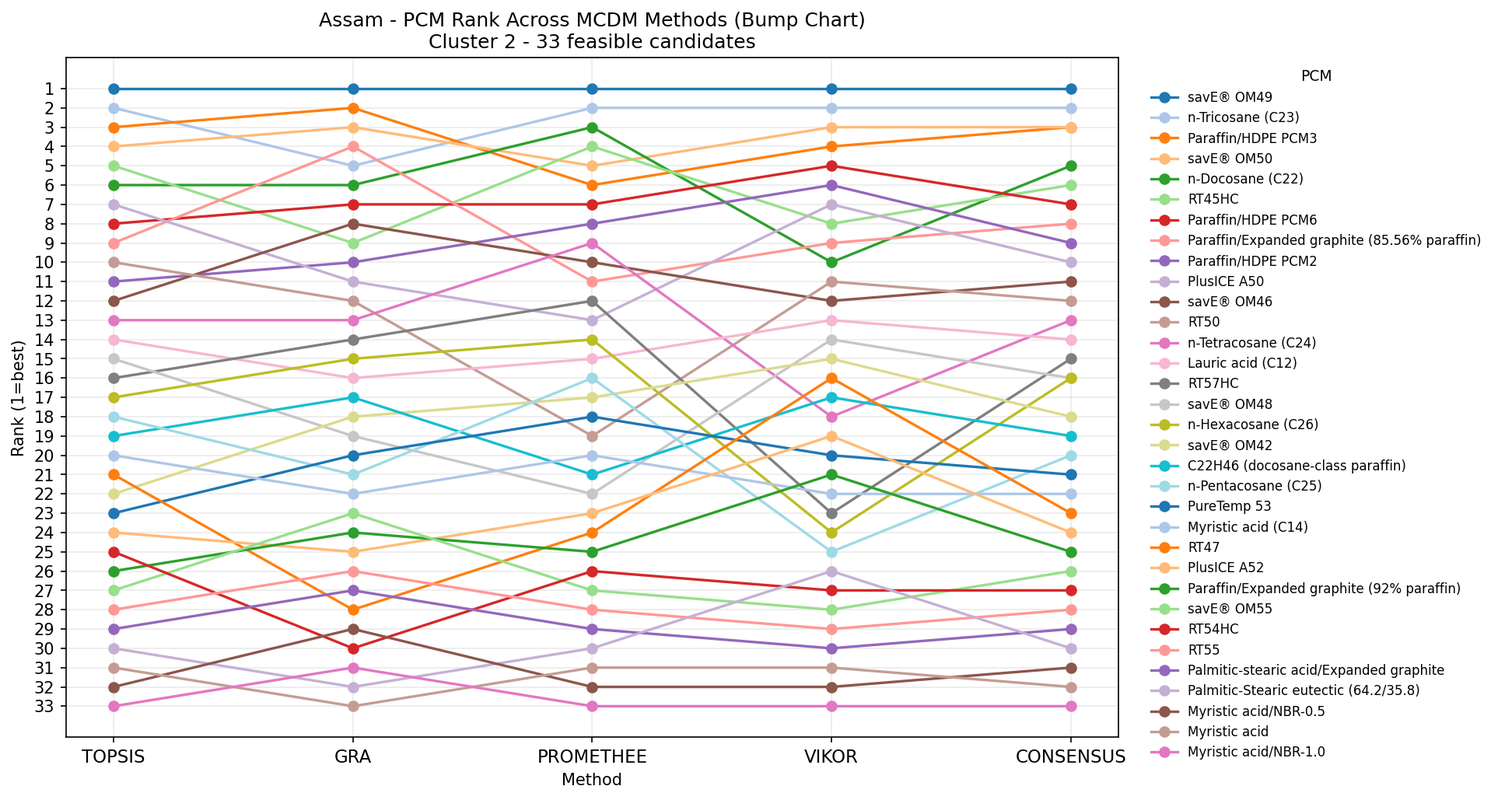
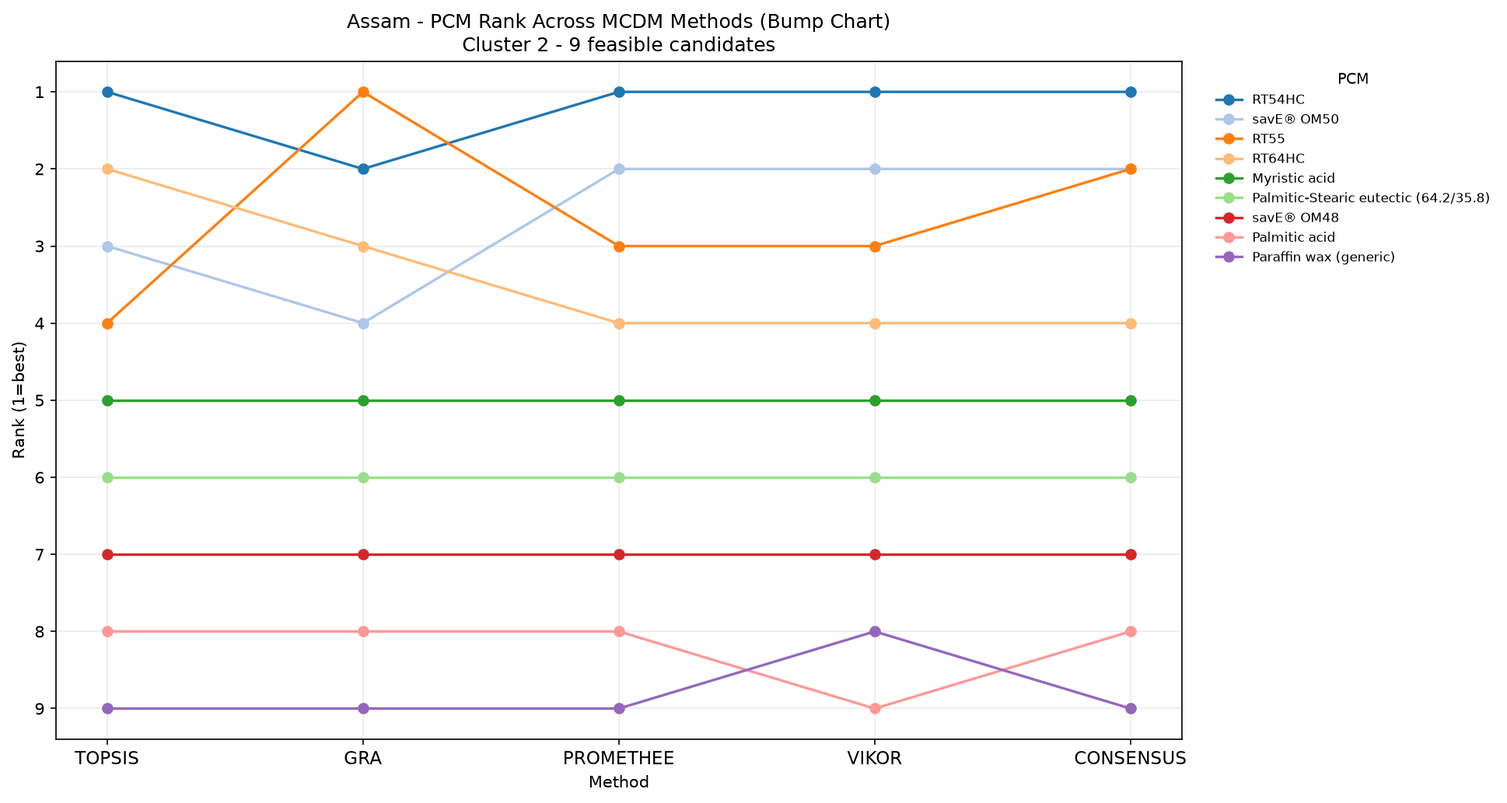
chore(plots): update Assam Cluster 2 MCDM bump chart from latest run

diff --git a/public/plots/assam/07_bump_chart_ranks_cluster_2.html b/public/plots/assam/07_bump_chart_ranks_cluster_2.html
@@ -6,6 +6,6 @@
 </head>
 <body>
     <div style="height:550px; width:100%;">                        <script>window.PlotlyConfig = {MathJaxConfig: 'local'};</script>
-        <script charset="utf-8" src="https://cdn.plot.ly/plotly-4.1.1.min.js" integrity="sha256-O24V1F27f8pb0glCkelh3cVHLNiHAJ5gCaVtq2aNch8=" crossorigin="anonymous"></script>                <div id="546731be-c1a8-4331-83df-b3c72d4fdcb7" class="plotly-graph-div" style="height:100%; width:100%;"></div>            <script>                window.PLOTLYENV=window.PLOTLYENV || {};                                if (document.getElementById("546731be-c1a8-4331-83df-b3c72d4fdcb7")) {                    Plotly.newPlot(                        "546731be-c1a8-4331-83df-b3c72d4fdcb7",                        [{"hovertemplate":"Name=savE® OM49\u003cbr\u003eMethod=%{x}\u003cbr\u003eRank=%{y}\u003cextra\u003e\u003c\u002fextra\u003e","legendgroup":"savE® OM49","line":{"color":"#FD3216","dash":"solid"},"marker":{"symbol":"circle"},"mode":"lines+markers","name":"savE® OM49","orientation":"v","showlegend":true,"x":["TOPSIS","GRA","PROMETHEE","VIKOR","CONSENSUS"],"xaxis":"x","y":{"dtype":"i1","bdata":"AQEBAQE="},"yaxis":"y","type":"scatter"},{"hovertemplate":"Name=n-Tricosane (C23)\u003cbr\u003eMethod=%{x}\u003cbr\u003eRank=%{y}\u003cextra\u003e\u003c\u002fextra\u003e","legendgroup":"n-Tricosane (C23)","line":{"color":"#00FE35","dash":"solid"},"marker":{"symbol":"circle"},"mode":"lines+markers","name":"n-Tricosane (C23)","orientation":"v","showlegend":true,"x":["TOPSIS","GRA","PROMETHEE","VIKOR","CONSENSUS"],"xaxis":"x","y":{"dtype":"i1","bdata":"AgUCAgI="},"yaxis":"y","type":"scatter"},{"hovertemplate":"Name=Paraffin\u002fHDPE PCM3\u003cbr\u003eMethod=%{x}\u003cbr\u003eRank=%{y}\u003cextra\u003e\u003c\u002fextra\u003e","legendgroup":"Paraffin\u002fHDPE PCM3","line":{"color":"#6A76FC","dash":"solid"},"marker":{"symbol":"circle"},"mode":"lines+markers","name":"Paraffin\u002fHDPE PCM3","orientation":"v","showlegend":true,"x":["TOPSIS","GRA","PROMETHEE","VIKOR","CONSENSUS"],"xaxis":"x","y":{"dtype":"i1","bdata":"AwIGBAM="},"yaxis":"y","type":"scatter"},{"hovertemplate":"Name=savE® OM50\u003cbr\u003eMethod=%{x}\u003cbr\u003eRank=%{y}\u003cextra\u003e\u003c\u002fextra\u003e","legendgroup":"savE® OM50","line":{"color":"#FED4C4","dash":"solid"},"marker":{"symbol":"circle"},"mode":"lines+markers","name":"savE® OM50","orientation":"v","showlegend":true,"x":["TOPSIS","GRA","PROMETHEE","VIKOR","CONSENSUS"],"xaxis":"x","y":{"dtype":"i1","bdata":"BAMFAwM="},"yaxis":"y","type":"scatter"},{"hovertemplate":"Name=n-Docosane (C22)\u003cbr\u003eMethod=%{x}\u003cbr\u003eRank=%{y}\u003cextra\u003e\u003c\u002fextra\u003e","legendgroup":"n-Docosane (C22)","line":{"color":"#FE00CE","dash":"solid"},"marker":{"symbol":"circle"},"mode":"lines+markers","name":"n-Docosane (C22)","orientation":"v","showlegend":true,"x":["TOPSIS","GRA","PROMETHEE","VIKOR","CONSENSUS"],"xaxis":"x","y":{"dtype":"i1","bdata":"BgYDCgU="},"yaxis":"y","type":"scatter"},{"hovertemplate":"Name=RT45HC\u003cbr\u003eMethod=%{x}\u003cbr\u003eRank=%{y}\u003cextra\u003e\u003c\u002fextra\u003e","legendgroup":"RT45HC","line":{"color":"#0DF9FF","dash":"solid"},"marker":{"symbol":"circle"},"mode":"lines+markers","name":"RT45HC","orientation":"v","showlegend":true,"x":["TOPSIS","GRA","PROMETHEE","VIKOR","CONSENSUS"],"xaxis":"x","y":{"dtype":"i1","bdata":"BQkECAY="},"yaxis":"y","type":"scatter"},{"hovertemplate":"Name=Paraffin\u002fHDPE PCM6\u003cbr\u003eMethod=%{x}\u003cbr\u003eRank=%{y}\u003cextra\u003e\u003c\u002fextra\u003e","legendgroup":"Paraffin\u002fHDPE PCM6","line":{"color":"#F6F926","dash":"solid"},"marker":{"symbol":"circle"},"mode":"lines+markers","name":"Paraffin\u002fHDPE PCM6","orientation":"v","showlegend":true,"x":["TOPSIS","GRA","PROMETHEE","VIKOR","CONSENSUS"],"xaxis":"x","y":{"dtype":"i1","bdata":"CAcHBQc="},"yaxis":"y","type":"scatter"},{"hovertemplate":"Name=Paraffin\u002fExpanded graphite (85.56% paraffin)\u003cbr\u003eMethod=%{x}\u003cbr\u003eRank=%{y}\u003cextra\u003e\u003c\u002fextra\u003e","legendgroup":"Paraffin\u002fExpanded graphite (85.56% paraffin)","line":{"color":"#FF9616","dash":"solid"},"marker":{"symbol":"circle"},"mode":"lines+markers","name":"Paraffin\u002fExpanded graphite (85.56% paraffin)","orientation":"v","showlegend":true,"x":["TOPSIS","GRA","PROMETHEE","VIKOR","CONSENSUS"],"xaxis":"x","y":{"dtype":"i1","bdata":"CQQLCQg="},"yaxis":"y","type":"scatter"},{"hovertemplate":"Name=Paraffin\u002fHDPE PCM2\u003cbr\u003eMethod=%{x}\u003cbr\u003eRank=%{y}\u003cextra\u003e\u003c\u002fextra\u003e","legendgroup":"Paraffin\u002fHDPE PCM2","line":{"color":"#479B55","dash":"solid"},"marker":{"symbol":"circle"},"mode":"lines+markers","name":"Paraffin\u002fHDPE PCM2","orientation":"v","showlegend":true,"x":["TOPSIS","GRA","PROMETHEE","VIKOR","CONSENSUS"],"xaxis":"x","y":{"dtype":"i1","bdata":"CwoIBgk="},"yaxis":"y","type":"scatter"},{"hovertemplate":"Name=PlusICE A50\u003cbr\u003eMethod=%{x}\u003cbr\u003eRank=%{y}\u003cextra\u003e\u003c\u002fextra\u003e","legendgroup":"PlusICE A50","line":{"color":"#EEA6FB","dash":"solid"},"marker":{"symbol":"circle"},"mode":"lines+markers","name":"PlusICE A50","orientation":"v","showlegend":true,"x":["TOPSIS","GRA","PROMETHEE","VIKOR","CONSENSUS"],"xaxis":"x","y":{"dtype":"i1","bdata":"BwsNBwo="},"yaxis":"y","type":"scatter"},{"hovertemplate":"Name=savE® OM46\u003cbr\u003eMethod=%{x}\u003cbr\u003eRank=%{y}\u003cextra\u003e\u003c\u002fextra\u003e","legendgroup":"savE® OM46","line":{"color":"#DC587D","dash":"solid"},"marker":{"symbol":"circle"},"mode":"lines+markers","name":"savE® OM46","orientation":"v","showlegend":true,"x":["TOPSIS","GRA","PROMETHEE","VIKOR","CONSENSUS"],"xaxis":"x","y":{"dtype":"i1","bdata":"DAgKDAs="},"yaxis":"y","type":"scatter"},{"hovertemplate":"Name=RT50\u003cbr\u003eMethod=%{x}\u003cbr\u003eRank=%{y}\u003cextra\u003e\u003c\u002fextra\u003e","legendgroup":"RT50","line":{"color":"#D626FF","dash":"solid"},"marker":{"symbol":"circle"},"mode":"lines+markers","name":"RT50","orientation":"v","showlegend":true,"x":["TOPSIS","GRA","PROMETHEE","VIKOR","CONSENSUS"],"xaxis":"x","y":{"dtype":"i1","bdata":"CgwTCww="},"yaxis":"y","type":"scatter"},{"hovertemplate":"Name=n-Tetracosane (C24)\u003cbr\u003eMethod=%{x}\u003cbr\u003eRank=%{y}\u003cextra\u003e\u003c\u002fextra\u003e","legendgroup":"n-Tetracosane (C24)","line":{"color":"#6E899C","dash":"solid"},"marker":{"symbol":"circle"},"mode":"lines+markers","name":"n-Tetracosane (C24)","orientation":"v","showlegend":true,"x":["TOPSIS","GRA","PROMETHEE","VIKOR","CONSENSUS"],"xaxis":"x","y":{"dtype":"i1","bdata":"DQ0JEg0="},"yaxis":"y","type":"scatter"},{"hovertemplate":"Name=Lauric acid (C12)\u003cbr\u003eMethod=%{x}\u003cbr\u003eRank=%{y}\u003cextra\u003e\u003c\u002fextra\u003e","legendgroup":"Lauric acid (C12)","line":{"color":"#00B5F7","dash":"solid"},"marker":{"symbol":"circle"},"mode":"lines+markers","name":"Lauric acid (C12)","orientation":"v","showlegend":true,"x":["TOPSIS","GRA","PROMETHEE","VIKOR","CONSENSUS"],"xaxis":"x","y":{"dtype":"i1","bdata":"DhAPDQ4="},"yaxis":"y","type":"scatter"},{"hovertemplate":"Name=RT57HC\u003cbr\u003eMethod=%{x}\u003cbr\u003eRank=%{y}\u003cextra\u003e\u003c\u002fextra\u003e","legendgroup":"RT57HC","line":{"color":"#B68E00","dash":"solid"},"marker":{"symbol":"circle"},"mode":"lines+markers","name":"RT57HC","orientation":"v","showlegend":true,"x":["TOPSIS","GRA","PROMETHEE","VIKOR","CONSENSUS"],"xaxis":"x","y":{"dtype":"i1","bdata":"EA4MFw8="},"yaxis":"y","type":"scatter"},{"hovertemplate":"Name=savE® OM48\u003cbr\u003eMethod=%{x}\u003cbr\u003eRank=%{y}\u003cextra\u003e\u003c\u002fextra\u003e","legendgroup":"savE® OM48","line":{"color":"#C9FBE5","dash":"solid"},"marker":{"symbol":"circle"},"mode":"lines+markers","name":"savE® OM48","orientation":"v","showlegend":true,"x":["TOPSIS","GRA","PROMETHEE","VIKOR","CONSENSUS"],"xaxis":"x","y":{"dtype":"i1","bdata":"DxMWDhA="},"yaxis":"y","type":"scatter"},{"hovertemplate":"Name=n-Hexacosane (C26)\u003cbr\u003eMethod=%{x}\u003cbr\u003eRank=%{y}\u003cextra\u003e\u003c\u002fextra\u003e","legendgroup":"n-Hexacosane (C26)","line":{"color":"#FF0092","dash":"solid"},"marker":{"symbol":"circle"},"mode":"lines+markers","name":"n-Hexacosane (C26)","orientation":"v","showlegend":true,"x":["TOPSIS","GRA","PROMETHEE","VIKOR","CONSENSUS"],"xaxis":"x","y":{"dtype":"i1","bdata":"EQ8OGBA="},"yaxis":"y","type":"scatter"},{"hovertemplate":"Name=savE® OM42\u003cbr\u003eMethod=%{x}\u003cbr\u003eRank=%{y}\u003cextra\u003e\u003c\u002fextra\u003e","legendgroup":"savE® OM42","line":{"color":"#22FFA7","dash":"solid"},"marker":{"symbol":"circle"},"mode":"lines+markers","name":"savE® OM42","orientation":"v","showlegend":true,"x":["TOPSIS","GRA","PROMETHEE","VIKOR","CONSENSUS"],"xaxis":"x","y":{"dtype":"i1","bdata":"FhIRDxI="},"yaxis":"y","type":"scatter"},{"hovertemplate":"Name=C22H46 (docosane-class paraffin)\u003cbr\u003eMethod=%{x}\u003cbr\u003eRank=%{y}\u003cextra\u003e\u003c\u002fextra\u003e","legendgroup":"C22H46 (docosane-class paraffin)","line":{"color":"#E3EE9E","dash":"solid"},"marker":{"symbol":"circle"},"mode":"lines+markers","name":"C22H46 (docosane-class paraffin)","orientation":"v","showlegend":true,"x":["TOPSIS","GRA","PROMETHEE","VIKOR","CONSENSUS"],"xaxis":"x","y":{"dtype":"i1","bdata":"ExEVERM="},"yaxis":"y","type":"scatter"},{"hovertemplate":"Name=n-Pentacosane (C25)\u003cbr\u003eMethod=%{x}\u003cbr\u003eRank=%{y}\u003cextra\u003e\u003c\u002fextra\u003e","legendgroup":"n-Pentacosane (C25)","line":{"color":"#86CE00","dash":"solid"},"marker":{"symbol":"circle"},"mode":"lines+markers","name":"n-Pentacosane (C25)","orientation":"v","showlegend":true,"x":["TOPSIS","GRA","PROMETHEE","VIKOR","CONSENSUS"],"xaxis":"x","y":{"dtype":"i1","bdata":"EhUQGRQ="},"yaxis":"y","type":"scatter"},{"hovertemplate":"Name=PureTemp 53\u003cbr\u003eMethod=%{x}\u003cbr\u003eRank=%{y}\u003cextra\u003e\u003c\u002fextra\u003e","legendgroup":"PureTemp 53","line":{"color":"#BC7196","dash":"solid"},"marker":{"symbol":"circle"},"mode":"lines+markers","name":"PureTemp 53","orientation":"v","showlegend":true,"x":["TOPSIS","GRA","PROMETHEE","VIKOR","CONSENSUS"],"xaxis":"x","y":{"dtype":"i1","bdata":"FxQSFBU="},"yaxis":"y","type":"scatter"},{"hovertemplate":"Name=Myristic acid (C14)\u003cbr\u003eMethod=%{x}\u003cbr\u003eRank=%{y}\u003cextra\u003e\u003c\u002fextra\u003e","legendgroup":"Myristic acid (C14)","line":{"color":"#7E7DCD","dash":"solid"},"marker":{"symbol":"circle"},"mode":"lines+markers","name":"Myristic acid (C14)","orientation":"v","showlegend":true,"x":["TOPSIS","GRA","PROMETHEE","VIKOR","CONSENSUS"],"xaxis":"x","y":{"dtype":"i1","bdata":"FBYUFhY="},"yaxis":"y","type":"scatter"},{"hovertemplate":"Name=RT47\u003cbr\u003eMethod=%{x}\u003cbr\u003eRank=%{y}\u003cextra\u003e\u003c\u002fextra\u003e","legendgroup":"RT47","line":{"color":"#FC6955","dash":"solid"},"marker":{"symbol":"circle"},"mode":"lines+markers","name":"RT47","orientation":"v","showlegend":true,"x":["TOPSIS","GRA","PROMETHEE","VIKOR","CONSENSUS"],"xaxis":"x","y":{"dtype":"i1","bdata":"FRwYEBc="},"yaxis":"y","type":"scatter"},{"hovertemplate":"Name=PlusICE A52\u003cbr\u003eMethod=%{x}\u003cbr\u003eRank=%{y}\u003cextra\u003e\u003c\u002fextra\u003e","legendgroup":"PlusICE A52","line":{"color":"#E48F72","dash":"solid"},"marker":{"symbol":"circle"},"mode":"lines+markers","name":"PlusICE A52","orientation":"v","showlegend":true,"x":["TOPSIS","GRA","PROMETHEE","VIKOR","CONSENSUS"],"xaxis":"x","y":{"dtype":"i1","bdata":"GBkXExg="},"yaxis":"y","type":"scatter"},{"hovertemplate":"Name=Paraffin\u002fExpanded graphite (92% paraffin)\u003cbr\u003eMethod=%{x}\u003cbr\u003eRank=%{y}\u003cextra\u003e\u003c\u002fextra\u003e","legendgroup":"Paraffin\u002fExpanded graphite (92% paraffin)","line":{"color":"#FD3216","dash":"solid"},"marker":{"symbol":"circle"},"mode":"lines+markers","name":"Paraffin\u002fExpanded graphite (92% paraffin)","orientation":"v","showlegend":true,"x":["TOPSIS","GRA","PROMETHEE","VIKOR","CONSENSUS"],"xaxis":"x","y":{"dtype":"i1","bdata":"GhgZFRk="},"yaxis":"y","type":"scatter"},{"hovertemplate":"Name=savE® OM55\u003cbr\u003eMethod=%{x}\u003cbr\u003eRank=%{y}\u003cextra\u003e\u003c\u002fextra\u003e","legendgroup":"savE® OM55","line":{"color":"#00FE35","dash":"solid"},"marker":{"symbol":"circle"},"mode":"lines+markers","name":"savE® OM55","orientation":"v","showlegend":true,"x":["TOPSIS","GRA","PROMETHEE","VIKOR","CONSENSUS"],"xaxis":"x","y":{"dtype":"i1","bdata":"GxcbHBo="},"yaxis":"y","type":"scatter"},{"hovertemplate":"Name=RT54HC\u003cbr\u003eMethod=%{x}\u003cbr\u003eRank=%{y}\u003cextra\u003e\u003c\u002fextra\u003e","legendgroup":"RT54HC","line":{"color":"#6A76FC","dash":"solid"},"marker":{"symbol":"circle"},"mode":"lines+markers","name":"RT54HC","orientation":"v","showlegend":true,"x":["TOPSIS","GRA","PROMETHEE","VIKOR","CONSENSUS"],"xaxis":"x","y":{"dtype":"i1","bdata":"GR4aGxs="},"yaxis":"y","type":"scatter"},{"hovertemplate":"Name=RT55\u003cbr\u003eMethod=%{x}\u003cbr\u003eRank=%{y}\u003cextra\u003e\u003c\u002fextra\u003e","legendgroup":"RT55","line":{"color":"#FED4C4","dash":"solid"},"marker":{"symbol":"circle"},"mode":"lines+markers","name":"RT55","orientation":"v","showlegend":true,"x":["TOPSIS","GRA","PROMETHEE","VIKOR","CONSENSUS"],"xaxis":"x","y":{"dtype":"i1","bdata":"HBocHRw="},"yaxis":"y","type":"scatter"},{"hovertemplate":"Name=Palmitic-stearic acid\u002fExpanded graphite\u003cbr\u003eMethod=%{x}\u003cbr\u003eRank=%{y}\u003cextra\u003e\u003c\u002fextra\u003e","legendgroup":"Palmitic-stearic acid\u002fExpanded graphite","line":{"color":"#FE00CE","dash":"solid"},"marker":{"symbol":"circle"},"mode":"lines+markers","name":"Palmitic-stearic acid\u002fExpanded graphite","orientation":"v","showlegend":true,"x":["TOPSIS","GRA","PROMETHEE","VIKOR","CONSENSUS"],"xaxis":"x","y":{"dtype":"i1","bdata":"HRsdHh0="},"yaxis":"y","type":"scatter"},{"hovertemplate":"Name=Palmitic-Stearic eutectic (64.2\u002f35.8)\u003cbr\u003eMethod=%{x}\u003cbr\u003eRank=%{y}\u003cextra\u003e\u003c\u002fextra\u003e","legendgroup":"Palmitic-Stearic eutectic (64.2\u002f35.8)","line":{"color":"#0DF9FF","dash":"solid"},"marker":{"symbol":"circle"},"mode":"lines+markers","name":"Palmitic-Stearic eutectic (64.2\u002f35.8)","orientation":"v","showlegend":true,"x":["TOPSIS","GRA","PROMETHEE","VIKOR","CONSENSUS"],"xaxis":"x","y":{"dtype":"i1","bdata":"HiAeGh4="},"yaxis":"y","type":"scatter"},{"hovertemplate":"Name=Myristic acid\u002fNBR-0.5\u003cbr\u003eMethod=%{x}\u003cbr\u003eRank=%{y}\u003cextra\u003e\u003c\u002fextra\u003e","legendgroup":"Myristic acid\u002fNBR-0.5","line":{"color":"#F6F926","dash":"solid"},"marker":{"symbol":"circle"},"mode":"lines+markers","name":"Myristic acid\u002fNBR-0.5","orientation":"v","showlegend":true,"x":["TOPSIS","GRA","PROMETHEE","VIKOR","CONSENSUS"],"xaxis":"x","y":{"dtype":"i1","bdata":"IB0gIB8="},"yaxis":"y","type":"scatter"},{"hovertemplate":"Name=Myristic acid\u003cbr\u003eMethod=%{x}\u003cbr\u003eRank=%{y}\u003cextra\u003e\u003c\u002fextra\u003e","legendgroup":"Myristic acid","line":{"color":"#FF9616","dash":"solid"},"marker":{"symbol":"circle"},"mode":"lines+markers","name":"Myristic acid","orientation":"v","showlegend":true,"x":["TOPSIS","GRA","PROMETHEE","VIKOR","CONSENSUS"],"xaxis":"x","y":{"dtype":"i1","bdata":"HyEfHyA="},"yaxis":"y","type":"scatter"},{"hovertemplate":"Name=Myristic acid\u002fNBR-1.0\u003cbr\u003eMethod=%{x}\u003cbr\u003eRank=%{y}\u003cextra\u003e\u003c\u002fextra\u003e","legendgroup":"Myristic acid\u002fNBR-1.0","line":{"color":"#479B55","dash":"solid"},"marker":{"symbol":"circle"},"mode":"lines+markers","name":"Myristic acid\u002fNBR-1.0","orientation":"v","showlegend":true,"x":["TOPSIS","GRA","PROMETHEE","VIKOR","CONSENSUS"],"xaxis":"x","y":{"dtype":"i1","bdata":"IR8hISE="},"yaxis":"y","type":"scatter"}],                        {"template":{"data":{"barpolar":[{"marker":{"line":{"color":"white","width":0.5},"pattern":{"fillmode":"overlay","size":10,"solidity":0.2}},"type":"barpolar"}],"bar":[{"error_x":{"color":"#2a3f5f"},"error_y":{"color":"#2a3f5f"},"marker":{"line":{"color":"white","width":0.5},"pattern":{"fillmode":"overlay","size":10,"solidity":0.2}},"type":"bar"}],"carpet":[{"aaxis":{"endlinecolor":"#2a3f5f","gridcolor":"#C8D4E3","linecolor":"#C8D4E3","minorgridcolor":"#C8D4E3","startlinecolor":"#2a3f5f"},"baxis":{"endlinecolor":"#2a3f5f","gridcolor":"#C8D4E3","linecolor":"#C8D4E3","minorgridcolor":"#C8D4E3","startlinecolor":"#2a3f5f"},"type":"carpet"}],"choropleth":[{"colorbar":{"outlinewidth":0,"ticks":""},"type":"choropleth"}],"contourcarpet":[{"colorbar":{"outlinewidth":0,"ticks":""},"type":"contourcarpet"}],"contour":[{"colorbar":{"outlinewidth":0,"ticks":""},"colorscale":[[0.0,"#0d0887"],[0.1111111111111111,"#46039f"],[0.2222222222222222,"#7201a8"],[0.3333333333333333,"#9c179e"],[0.4444444444444444,"#bd3786"],[0.5555555555555556,"#d8576b"],[0.6666666666666666,"#ed7953"],[0.7777777777777778,"#fb9f3a"],[0.8888888888888888,"#fdca26"],[1.0,"#f0f921"]],"type":"contour"}],"heatmap":[{"colorbar":{"outlinewidth":0,"ticks":""},"colorscale":[[0.0,"#0d0887"],[0.1111111111111111,"#46039f"],[0.2222222222222222,"#7201a8"],[0.3333333333333333,"#9c179e"],[0.4444444444444444,"#bd3786"],[0.5555555555555556,"#d8576b"],[0.6666666666666666,"#ed7953"],[0.7777777777777778,"#fb9f3a"],[0.8888888888888888,"#fdca26"],[1.0,"#f0f921"]],"type":"heatmap"}],"histogram2dcontour":[{"colorbar":{"outlinewidth":0,"ticks":""},"colorscale":[[0.0,"#0d0887"],[0.1111111111111111,"#46039f"],[0.2222222222222222,"#7201a8"],[0.3333333333333333,"#9c179e"],[0.4444444444444444,"#bd3786"],[0.5555555555555556,"#d8576b"],[0.6666666666666666,"#ed7953"],[0.7777777777777778,"#fb9f3a"],[0.8888888888888888,"#fdca26"],[1.0,"#f0f921"]],"type":"histogram2dcontour"}],"histogram2d":[{"colorbar":{"outlinewidth":0,"ticks":""},"colorscale":[[0.0,"#0d0887"],[0.1111111111111111,"#46039f"],[0.2222222222222222,"#7201a8"],[0.3333333333333333,"#9c179e"],[0.4444444444444444,"#bd3786"],[0.5555555555555556,"#d8576b"],[0.6666666666666666,"#ed7953"],[0.7777777777777778,"#fb9f3a"],[0.8888888888888888,"#fdca26"],[1.0,"#f0f921"]],"type":"histogram2d"}],"histogram":[{"marker":{"pattern":{"fillmode":"overlay","size":10,"solidity":0.2}},"type":"histogram"}],"mesh3d":[{"colorbar":{"outlinewidth":0,"ticks":""},"type":"mesh3d"}],"parcoords":[{"line":{"colorbar":{"outlinewidth":0,"ticks":""}},"type":"parcoords"}],"pie":[{"automargin":true,"type":"pie"}],"scatter3d":[{"line":{"colorbar":{"outlinewidth":0,"ticks":""}},"marker":{"colorbar":{"outlinewidth":0,"ticks":""}},"type":"scatter3d"}],"scattercarpet":[{"marker":{"colorbar":{"outlinewidth":0,"ticks":""}},"type":"scattercarpet"}],"scattergeo":[{"marker":{"colorbar":{"outlinewidth":0,"ticks":""}},"type":"scattergeo"}],"scattergl":[{"marker":{"colorbar":{"outlinewidth":0,"ticks":""}},"type":"scattergl"}],"scattermap":[{"marker":{"colorbar":{"outlinewidth":0,"ticks":""}},"type":"scattermap"}],"scatterpolargl":[{"marker":{"colorbar":{"outlinewidth":0,"ticks":""}},"type":"scatterpolargl"}],"scatterpolar":[{"marker":{"colorbar":{"outlinewidth":0,"ticks":""}},"type":"scatterpolar"}],"scatter":[{"fillpattern":{"fillmode":"overlay","size":10,"solidity":0.2},"type":"scatter"}],"scatterternary":[{"marker":{"colorbar":{"outlinewidth":0,"ticks":""}},"type":"scatterternary"}],"surface":[{"colorbar":{"outlinewidth":0,"ticks":""},"colorscale":[[0.0,"#0d0887"],[0.1111111111111111,"#46039f"],[0.2222222222222222,"#7201a8"],[0.3333333333333333,"#9c179e"],[0.4444444444444444,"#bd3786"],[0.5555555555555556,"#d8576b"],[0.6666666666666666,"#ed7953"],[0.7777777777777778,"#fb9f3a"],[0.8888888888888888,"#fdca26"],[1.0,"#f0f921"]],"type":"surface"}],"table":[{"cells":{"fill":{"color":"#EBF0F8"},"line":{"color":"white"}},"header":{"fill":{"color":"#C8D4E3"},"line":{"color":"white"}},"type":"table"}]},"layout":{"annotationdefaults":{"arrowcolor":"#2a3f5f","arrowhead":0,"arrowwidth":1},"autotypenumbers":"strict","coloraxis":{"colorbar":{"outlinewidth":0,"ticks":""}},"colorscale":{"diverging":[[0,"#8e0152"],[0.1,"#c51b7d"],[0.2,"#de77ae"],[0.3,"#f1b6da"],[0.4,"#fde0ef"],[0.5,"#f7f7f7"],[0.6,"#e6f5d0"],[0.7,"#b8e186"],[0.8,"#7fbc41"],[0.9,"#4d9221"],[1,"#276419"]],"sequential":[[0.0,"#0d0887"],[0.1111111111111111,"#46039f"],[0.2222222222222222,"#7201a8"],[0.3333333333333333,"#9c179e"],[0.4444444444444444,"#bd3786"],[0.5555555555555556,"#d8576b"],[0.6666666666666666,"#ed7953"],[0.7777777777777778,"#fb9f3a"],[0.8888888888888888,"#fdca26"],[1.0,"#f0f921"]],"sequentialminus":[[0.0,"#0d0887"],[0.1111111111111111,"#46039f"],[0.2222222222222222,"#7201a8"],[0.3333333333333333,"#9c179e"],[0.4444444444444444,"#bd3786"],[0.5555555555555556,"#d8576b"],[0.6666666666666666,"#ed7953"],[0.7777777777777778,"#fb9f3a"],[0.8888888888888888,"#fdca26"],[1.0,"#f0f921"]]},"colorway":["#636efa","#EF553B","#00cc96","#ab63fa","#FFA15A","#19d3f3","#FF6692","#B6E880","#FF97FF","#FECB52"],"font":{"color":"#2a3f5f"},"geo":{"bgcolor":"white","lakecolor":"white","landcolor":"white","showlakes":true,"showland":true,"subunitcolor":"#C8D4E3"},"hoverlabel":{"align":"left"},"hovermode":"closest","paper_bgcolor":"white","plot_bgcolor":"white","polar":{"angularaxis":{"gridcolor":"#EBF0F8","linecolor":"#EBF0F8","ticks":""},"bgcolor":"white","radialaxis":{"gridcolor":"#EBF0F8","linecolor":"#EBF0F8","ticks":""}},"scene":{"xaxis":{"backgroundcolor":"white","gridcolor":"#DFE8F3","gridwidth":2,"linecolor":"#EBF0F8","showbackground":true,"ticks":"","zerolinecolor":"#EBF0F8"},"yaxis":{"backgroundcolor":"white","gridcolor":"#DFE8F3","gridwidth":2,"linecolor":"#EBF0F8","showbackground":true,"ticks":"","zerolinecolor":"#EBF0F8"},"zaxis":{"backgroundcolor":"white","gridcolor":"#DFE8F3","gridwidth":2,"linecolor":"#EBF0F8","showbackground":true,"ticks":"","zerolinecolor":"#EBF0F8"}},"shapedefaults":{"line":{"color":"#2a3f5f"}},"ternary":{"aaxis":{"gridcolor":"#DFE8F3","linecolor":"#A2B1C6","ticks":""},"baxis":{"gridcolor":"#DFE8F3","linecolor":"#A2B1C6","ticks":""},"bgcolor":"white","caxis":{"gridcolor":"#DFE8F3","linecolor":"#A2B1C6","ticks":""}},"title":{"x":0.05},"xaxis":{"automargin":true,"gridcolor":"#EBF0F8","linecolor":"#EBF0F8","ticks":"","title":{"standoff":15},"zerolinecolor":"#EBF0F8","zerolinewidth":2},"yaxis":{"automargin":true,"gridcolor":"#EBF0F8","linecolor":"#EBF0F8","ticks":"","title":{"standoff":15},"zerolinecolor":"#EBF0F8","zerolinewidth":2}}},"xaxis":{"anchor":"y","domain":[0.0,1.0],"title":{"text":"Method"}},"yaxis":{"anchor":"x","domain":[0.0,1.0],"title":{"text":"Rank (1=best)"},"autorange":"reversed"},"legend":{"title":{"text":"PCM"},"tracegroupgap":0},"title":{"text":"Assam PCM - Rank Across MCDM Methods, Cluster 2 (33 candidates)"},"height":550},                        {"responsive": true}                    )                };            </script>        </div>
+        <script charset="utf-8" src="https://cdn.plot.ly/plotly-4.0.0.min.js" integrity="sha256-FEYfO0yRyLtZCpnW0Dw/0DHKQO7Afrq3ml4+rBB818o=" crossorigin="anonymous"></script>                <div id="0104d577-79cf-4673-91e3-e0839709ab7f" class="plotly-graph-div" style="height:100%; width:100%;"></div>            <script>                window.PLOTLYENV=window.PLOTLYENV || {};                                if (document.getElementById("0104d577-79cf-4673-91e3-e0839709ab7f")) {                    Plotly.newPlot(                        "0104d577-79cf-4673-91e3-e0839709ab7f",                        [{"hovertemplate":"Name=RT54HC\u003cbr\u003eMethod=%{x}\u003cbr\u003eRank=%{y}\u003cextra\u003e\u003c\u002fextra\u003e","legendgroup":"RT54HC","line":{"color":"#FD3216","dash":"solid"},"marker":{"symbol":"circle"},"mode":"lines+markers","name":"RT54HC","orientation":"v","showlegend":true,"x":["TOPSIS","GRA","PROMETHEE","VIKOR","CONSENSUS"],"xaxis":"x","y":{"dtype":"i1","bdata":"AQIBAQE="},"yaxis":"y","type":"scatter"},{"hovertemplate":"Name=savE® OM50\u003cbr\u003eMethod=%{x}\u003cbr\u003eRank=%{y}\u003cextra\u003e\u003c\u002fextra\u003e","legendgroup":"savE® OM50","line":{"color":"#00FE35","dash":"solid"},"marker":{"symbol":"circle"},"mode":"lines+markers","name":"savE® OM50","orientation":"v","showlegend":true,"x":["TOPSIS","GRA","PROMETHEE","VIKOR","CONSENSUS"],"xaxis":"x","y":{"dtype":"i1","bdata":"AwQCAgI="},"yaxis":"y","type":"scatter"},{"hovertemplate":"Name=RT55\u003cbr\u003eMethod=%{x}\u003cbr\u003eRank=%{y}\u003cextra\u003e\u003c\u002fextra\u003e","legendgroup":"RT55","line":{"color":"#6A76FC","dash":"solid"},"marker":{"symbol":"circle"},"mode":"lines+markers","name":"RT55","orientation":"v","showlegend":true,"x":["TOPSIS","GRA","PROMETHEE","VIKOR","CONSENSUS"],"xaxis":"x","y":{"dtype":"i1","bdata":"BAEDAwI="},"yaxis":"y","type":"scatter"},{"hovertemplate":"Name=RT64HC\u003cbr\u003eMethod=%{x}\u003cbr\u003eRank=%{y}\u003cextra\u003e\u003c\u002fextra\u003e","legendgroup":"RT64HC","line":{"color":"#FED4C4","dash":"solid"},"marker":{"symbol":"circle"},"mode":"lines+markers","name":"RT64HC","orientation":"v","showlegend":true,"x":["TOPSIS","GRA","PROMETHEE","VIKOR","CONSENSUS"],"xaxis":"x","y":{"dtype":"i1","bdata":"AgMEBAQ="},"yaxis":"y","type":"scatter"},{"hovertemplate":"Name=Myristic acid\u003cbr\u003eMethod=%{x}\u003cbr\u003eRank=%{y}\u003cextra\u003e\u003c\u002fextra\u003e","legendgroup":"Myristic acid","line":{"color":"#FE00CE","dash":"solid"},"marker":{"symbol":"circle"},"mode":"lines+markers","name":"Myristic acid","orientation":"v","showlegend":true,"x":["TOPSIS","GRA","PROMETHEE","VIKOR","CONSENSUS"],"xaxis":"x","y":{"dtype":"i1","bdata":"BQUFBQU="},"yaxis":"y","type":"scatter"},{"hovertemplate":"Name=Palmitic-Stearic eutectic (64.2\u002f35.8)\u003cbr\u003eMethod=%{x}\u003cbr\u003eRank=%{y}\u003cextra\u003e\u003c\u002fextra\u003e","legendgroup":"Palmitic-Stearic eutectic (64.2\u002f35.8)","line":{"color":"#0DF9FF","dash":"solid"},"marker":{"symbol":"circle"},"mode":"lines+markers","name":"Palmitic-Stearic eutectic (64.2\u002f35.8)","orientation":"v","showlegend":true,"x":["TOPSIS","GRA","PROMETHEE","VIKOR","CONSENSUS"],"xaxis":"x","y":{"dtype":"i1","bdata":"BgYGBgY="},"yaxis":"y","type":"scatter"},{"hovertemplate":"Name=savE® OM48\u003cbr\u003eMethod=%{x}\u003cbr\u003eRank=%{y}\u003cextra\u003e\u003c\u002fextra\u003e","legendgroup":"savE® OM48","line":{"color":"#F6F926","dash":"solid"},"marker":{"symbol":"circle"},"mode":"lines+markers","name":"savE® OM48","orientation":"v","showlegend":true,"x":["TOPSIS","GRA","PROMETHEE","VIKOR","CONSENSUS"],"xaxis":"x","y":{"dtype":"i1","bdata":"BwcHBwc="},"yaxis":"y","type":"scatter"},{"hovertemplate":"Name=Palmitic acid\u003cbr\u003eMethod=%{x}\u003cbr\u003eRank=%{y}\u003cextra\u003e\u003c\u002fextra\u003e","legendgroup":"Palmitic acid","line":{"color":"#FF9616","dash":"solid"},"marker":{"symbol":"circle"},"mode":"lines+markers","name":"Palmitic acid","orientation":"v","showlegend":true,"x":["TOPSIS","GRA","PROMETHEE","VIKOR","CONSENSUS"],"xaxis":"x","y":{"dtype":"i1","bdata":"CAgICQg="},"yaxis":"y","type":"scatter"},{"hovertemplate":"Name=Paraffin wax (generic)\u003cbr\u003eMethod=%{x}\u003cbr\u003eRank=%{y}\u003cextra\u003e\u003c\u002fextra\u003e","legendgroup":"Paraffin wax (generic)","line":{"color":"#479B55","dash":"solid"},"marker":{"symbol":"circle"},"mode":"lines+markers","name":"Paraffin wax (generic)","orientation":"v","showlegend":true,"x":["TOPSIS","GRA","PROMETHEE","VIKOR","CONSENSUS"],"xaxis":"x","y":{"dtype":"i1","bdata":"CQkJCAk="},"yaxis":"y","type":"scatter"}],                        {"template":{"data":{"barpolar":[{"marker":{"line":{"color":"white","width":0.5},"pattern":{"fillmode":"overlay","size":10,"solidity":0.2}},"type":"barpolar"}],"bar":[{"error_x":{"color":"#2a3f5f"},"error_y":{"color":"#2a3f5f"},"marker":{"line":{"color":"white","width":0.5},"pattern":{"fillmode":"overlay","size":10,"solidity":0.2}},"type":"bar"}],"carpet":[{"aaxis":{"endlinecolor":"#2a3f5f","gridcolor":"#C8D4E3","linecolor":"#C8D4E3","minorgridcolor":"#C8D4E3","startlinecolor":"#2a3f5f"},"baxis":{"endlinecolor":"#2a3f5f","gridcolor":"#C8D4E3","linecolor":"#C8D4E3","minorgridcolor":"#C8D4E3","startlinecolor":"#2a3f5f"},"type":"carpet"}],"choropleth":[{"colorbar":{"outlinewidth":0,"ticks":""},"type":"choropleth"}],"contourcarpet":[{"colorbar":{"outlinewidth":0,"ticks":""},"type":"contourcarpet"}],"contour":[{"colorbar":{"outlinewidth":0,"ticks":""},"colorscale":[[0.0,"#0d0887"],[0.1111111111111111,"#46039f"],[0.2222222222222222,"#7201a8"],[0.3333333333333333,"#9c179e"],[0.4444444444444444,"#bd3786"],[0.5555555555555556,"#d8576b"],[0.6666666666666666,"#ed7953"],[0.7777777777777778,"#fb9f3a"],[0.8888888888888888,"#fdca26"],[1.0,"#f0f921"]],"type":"contour"}],"heatmap":[{"colorbar":{"outlinewidth":0,"ticks":""},"colorscale":[[0.0,"#0d0887"],[0.1111111111111111,"#46039f"],[0.2222222222222222,"#7201a8"],[0.3333333333333333,"#9c179e"],[0.4444444444444444,"#bd3786"],[0.5555555555555556,"#d8576b"],[0.6666666666666666,"#ed7953"],[0.7777777777777778,"#fb9f3a"],[0.8888888888888888,"#fdca26"],[1.0,"#f0f921"]],"type":"heatmap"}],"histogram2dcontour":[{"colorbar":{"outlinewidth":0,"ticks":""},"colorscale":[[0.0,"#0d0887"],[0.1111111111111111,"#46039f"],[0.2222222222222222,"#7201a8"],[0.3333333333333333,"#9c179e"],[0.4444444444444444,"#bd3786"],[0.5555555555555556,"#d8576b"],[0.6666666666666666,"#ed7953"],[0.7777777777777778,"#fb9f3a"],[0.8888888888888888,"#fdca26"],[1.0,"#f0f921"]],"type":"histogram2dcontour"}],"histogram2d":[{"colorbar":{"outlinewidth":0,"ticks":""},"colorscale":[[0.0,"#0d0887"],[0.1111111111111111,"#46039f"],[0.2222222222222222,"#7201a8"],[0.3333333333333333,"#9c179e"],[0.4444444444444444,"#bd3786"],[0.5555555555555556,"#d8576b"],[0.6666666666666666,"#ed7953"],[0.7777777777777778,"#fb9f3a"],[0.8888888888888888,"#fdca26"],[1.0,"#f0f921"]],"type":"histogram2d"}],"histogram":[{"marker":{"pattern":{"fillmode":"overlay","size":10,"solidity":0.2}},"type":"histogram"}],"mesh3d":[{"colorbar":{"outlinewidth":0,"ticks":""},"type":"mesh3d"}],"parcoords":[{"line":{"colorbar":{"outlinewidth":0,"ticks":""}},"type":"parcoords"}],"pie":[{"automargin":true,"type":"pie"}],"scatter3d":[{"line":{"colorbar":{"outlinewidth":0,"ticks":""}},"marker":{"colorbar":{"outlinewidth":0,"ticks":""}},"type":"scatter3d"}],"scattercarpet":[{"marker":{"colorbar":{"outlinewidth":0,"ticks":""}},"type":"scattercarpet"}],"scattergeo":[{"marker":{"colorbar":{"outlinewidth":0,"ticks":""}},"type":"scattergeo"}],"scattergl":[{"marker":{"colorbar":{"outlinewidth":0,"ticks":""}},"type":"scattergl"}],"scattermap":[{"marker":{"colorbar":{"outlinewidth":0,"ticks":""}},"type":"scattermap"}],"scatterpolargl":[{"marker":{"colorbar":{"outlinewidth":0,"ticks":""}},"type":"scatterpolargl"}],"scatterpolar":[{"marker":{"colorbar":{"outlinewidth":0,"ticks":""}},"type":"scatterpolar"}],"scatter":[{"fillpattern":{"fillmode":"overlay","size":10,"solidity":0.2},"type":"scatter"}],"scatterternary":[{"marker":{"colorbar":{"outlinewidth":0,"ticks":""}},"type":"scatterternary"}],"surface":[{"colorbar":{"outlinewidth":0,"ticks":""},"colorscale":[[0.0,"#0d0887"],[0.1111111111111111,"#46039f"],[0.2222222222222222,"#7201a8"],[0.3333333333333333,"#9c179e"],[0.4444444444444444,"#bd3786"],[0.5555555555555556,"#d8576b"],[0.6666666666666666,"#ed7953"],[0.7777777777777778,"#fb9f3a"],[0.8888888888888888,"#fdca26"],[1.0,"#f0f921"]],"type":"surface"}],"table":[{"cells":{"fill":{"color":"#EBF0F8"},"line":{"color":"white"}},"header":{"fill":{"color":"#C8D4E3"},"line":{"color":"white"}},"type":"table"}]},"layout":{"annotationdefaults":{"arrowcolor":"#2a3f5f","arrowhead":0,"arrowwidth":1},"autotypenumbers":"strict","coloraxis":{"colorbar":{"outlinewidth":0,"ticks":""}},"colorscale":{"diverging":[[0,"#8e0152"],[0.1,"#c51b7d"],[0.2,"#de77ae"],[0.3,"#f1b6da"],[0.4,"#fde0ef"],[0.5,"#f7f7f7"],[0.6,"#e6f5d0"],[0.7,"#b8e186"],[0.8,"#7fbc41"],[0.9,"#4d9221"],[1,"#276419"]],"sequential":[[0.0,"#0d0887"],[0.1111111111111111,"#46039f"],[0.2222222222222222,"#7201a8"],[0.3333333333333333,"#9c179e"],[0.4444444444444444,"#bd3786"],[0.5555555555555556,"#d8576b"],[0.6666666666666666,"#ed7953"],[0.7777777777777778,"#fb9f3a"],[0.8888888888888888,"#fdca26"],[1.0,"#f0f921"]],"sequentialminus":[[0.0,"#0d0887"],[0.1111111111111111,"#46039f"],[0.2222222222222222,"#7201a8"],[0.3333333333333333,"#9c179e"],[0.4444444444444444,"#bd3786"],[0.5555555555555556,"#d8576b"],[0.6666666666666666,"#ed7953"],[0.7777777777777778,"#fb9f3a"],[0.8888888888888888,"#fdca26"],[1.0,"#f0f921"]]},"colorway":["#636efa","#EF553B","#00cc96","#ab63fa","#FFA15A","#19d3f3","#FF6692","#B6E880","#FF97FF","#FECB52"],"font":{"color":"#2a3f5f"},"geo":{"bgcolor":"white","lakecolor":"white","landcolor":"white","showlakes":true,"showland":true,"subunitcolor":"#C8D4E3"},"hoverlabel":{"align":"left"},"hovermode":"closest","paper_bgcolor":"white","plot_bgcolor":"white","polar":{"angularaxis":{"gridcolor":"#EBF0F8","linecolor":"#EBF0F8","ticks":""},"bgcolor":"white","radialaxis":{"gridcolor":"#EBF0F8","linecolor":"#EBF0F8","ticks":""}},"scene":{"xaxis":{"backgroundcolor":"white","gridcolor":"#DFE8F3","gridwidth":2,"linecolor":"#EBF0F8","showbackground":true,"ticks":"","zerolinecolor":"#EBF0F8"},"yaxis":{"backgroundcolor":"white","gridcolor":"#DFE8F3","gridwidth":2,"linecolor":"#EBF0F8","showbackground":true,"ticks":"","zerolinecolor":"#EBF0F8"},"zaxis":{"backgroundcolor":"white","gridcolor":"#DFE8F3","gridwidth":2,"linecolor":"#EBF0F8","showbackground":true,"ticks":"","zerolinecolor":"#EBF0F8"}},"shapedefaults":{"line":{"color":"#2a3f5f"}},"ternary":{"aaxis":{"gridcolor":"#DFE8F3","linecolor":"#A2B1C6","ticks":""},"baxis":{"gridcolor":"#DFE8F3","linecolor":"#A2B1C6","ticks":""},"bgcolor":"white","caxis":{"gridcolor":"#DFE8F3","linecolor":"#A2B1C6","ticks":""}},"title":{"x":0.05},"xaxis":{"automargin":true,"gridcolor":"#EBF0F8","linecolor":"#EBF0F8","ticks":"","title":{"standoff":15},"zerolinecolor":"#EBF0F8","zerolinewidth":2},"yaxis":{"automargin":true,"gridcolor":"#EBF0F8","linecolor":"#EBF0F8","ticks":"","title":{"standoff":15},"zerolinecolor":"#EBF0F8","zerolinewidth":2}}},"xaxis":{"anchor":"y","domain":[0.0,1.0],"title":{"text":"Method"}},"yaxis":{"anchor":"x","domain":[0.0,1.0],"title":{"text":"Rank (1=best)"},"autorange":"reversed"},"legend":{"title":{"text":"PCM"},"tracegroupgap":0},"title":{"text":"Assam PCM - Rank Across MCDM Methods, Cluster 2 (9 candidates)"},"height":550},                        {"responsive": true}                    )                };            </script>        </div>
 </body>
 </html>
